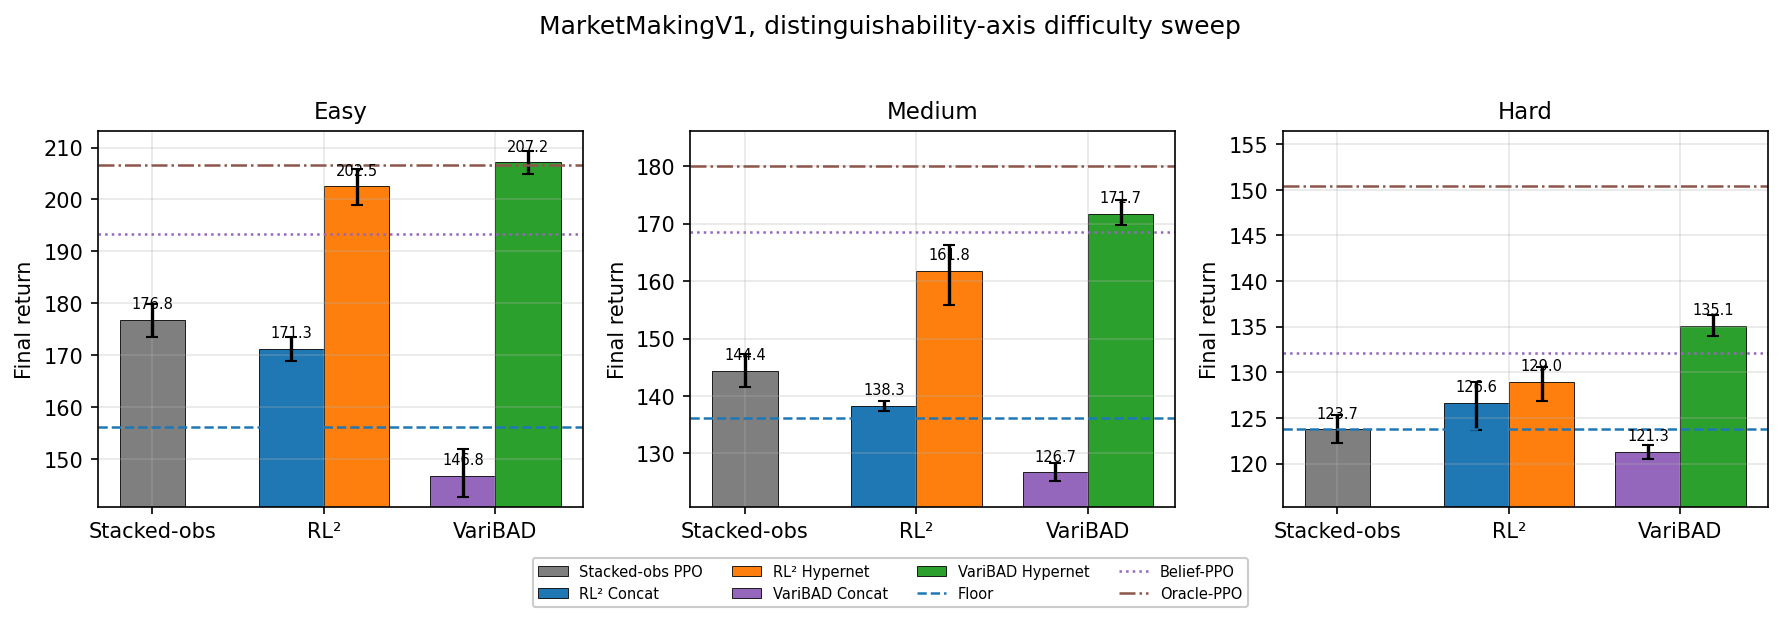
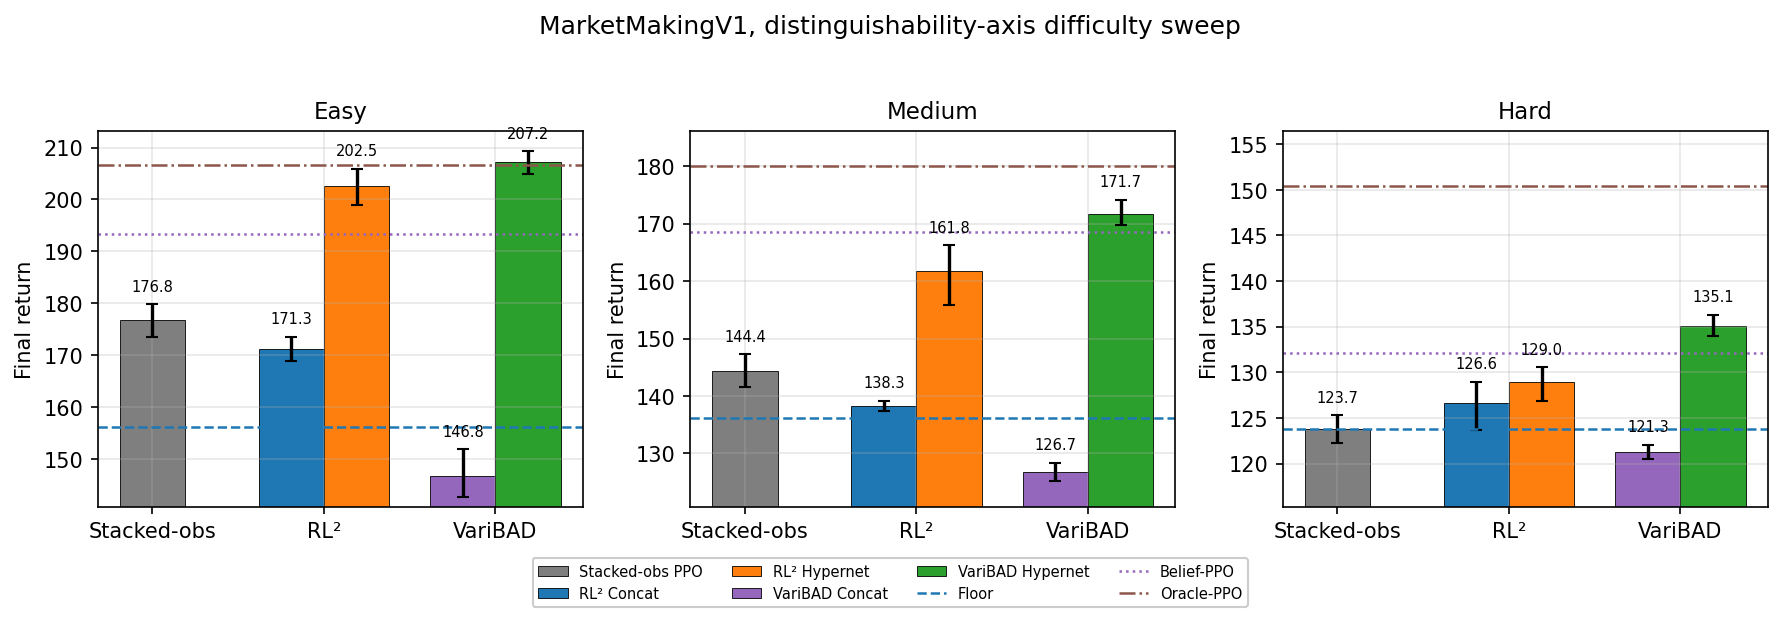
Bar-chart labels: place above upper CI cap so they don't overlap whiskers

diff --git a/plotting/m5r_plots.py b/plotting/m5r_plots.py
@@ -144,8 +144,10 @@ def _ladder_bars(
             edgecolor="black", linewidth=0.4, color=STACKED_OBS_COLOR,
         )
         if not np.isnan(m):
+            # Place label above the upper CI cap, not above the bar top, so
+            # the annotation cannot collide with the error-bar whisker.
             ax.annotate(
-                f"{m:.1f}", xy=(0.0, m), xytext=(0, 4),
+                f"{m:.1f}", xy=(0.0, hi), xytext=(0, 5),
                 textcoords="offset points",
                 ha="center", va="bottom", fontsize=7,
             )
@@ -169,10 +171,11 @@ def _ladder_bars(
         )
         for bar, method in zip(bars, methods):
             bar.set_facecolor(COLORS[f"{method}_{integ}"])
-        for xi, m in zip(x, means):
+        for xi, m, he in zip(x, means, hi_err):
             if not np.isnan(m):
+                # Label sits above the upper CI cap, not the bar top.
                 ax.annotate(
-                    f"{m:.1f}", xy=(xi, m), xytext=(0, 4),
+                    f"{m:.1f}", xy=(xi, m + he), xytext=(0, 5),
                     textcoords="offset points",
                     ha="center", va="bottom", fontsize=7,
                 )
